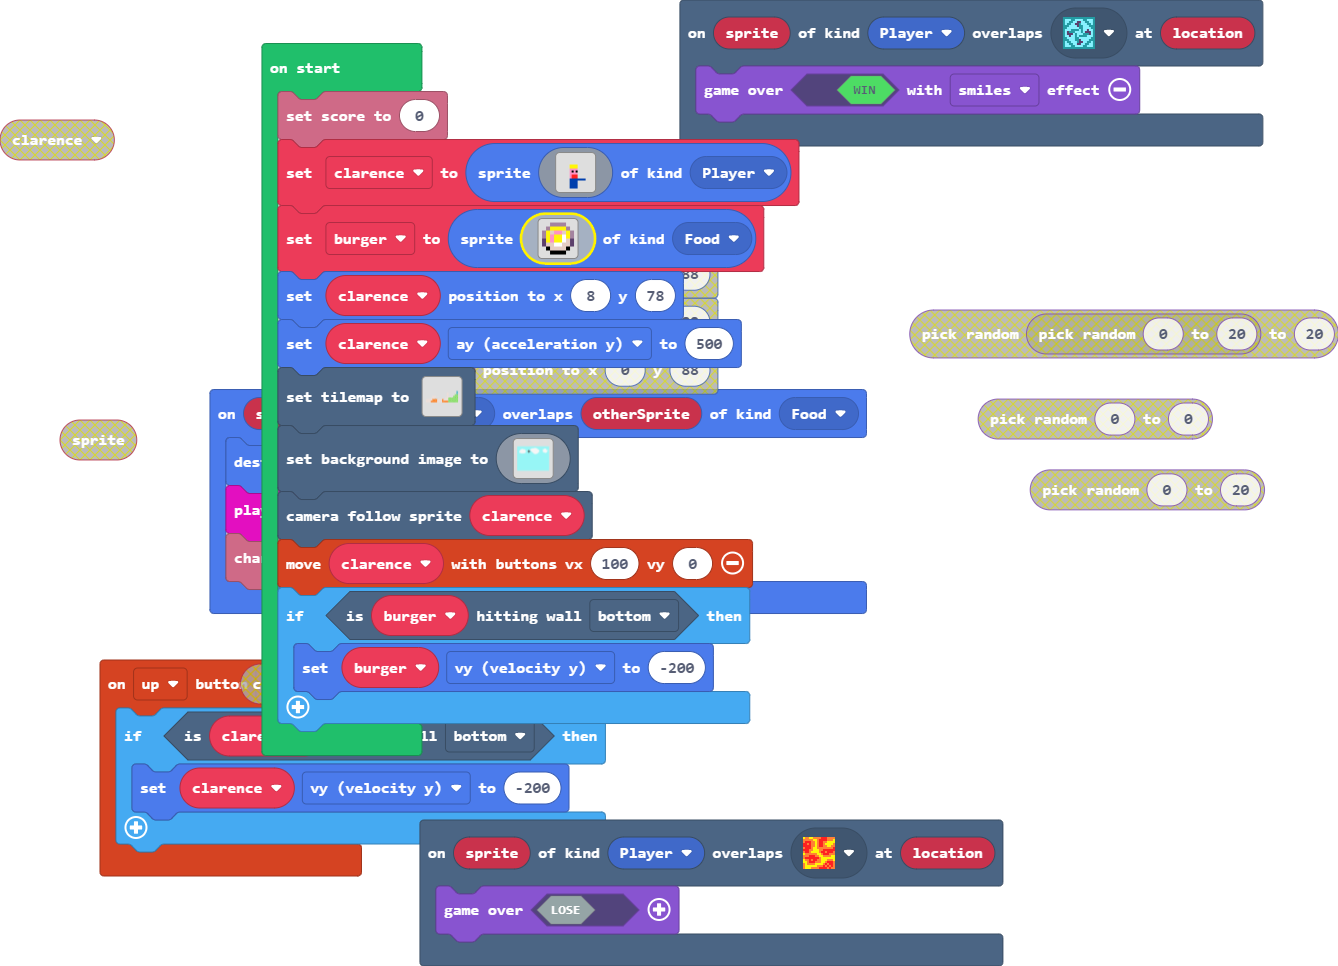
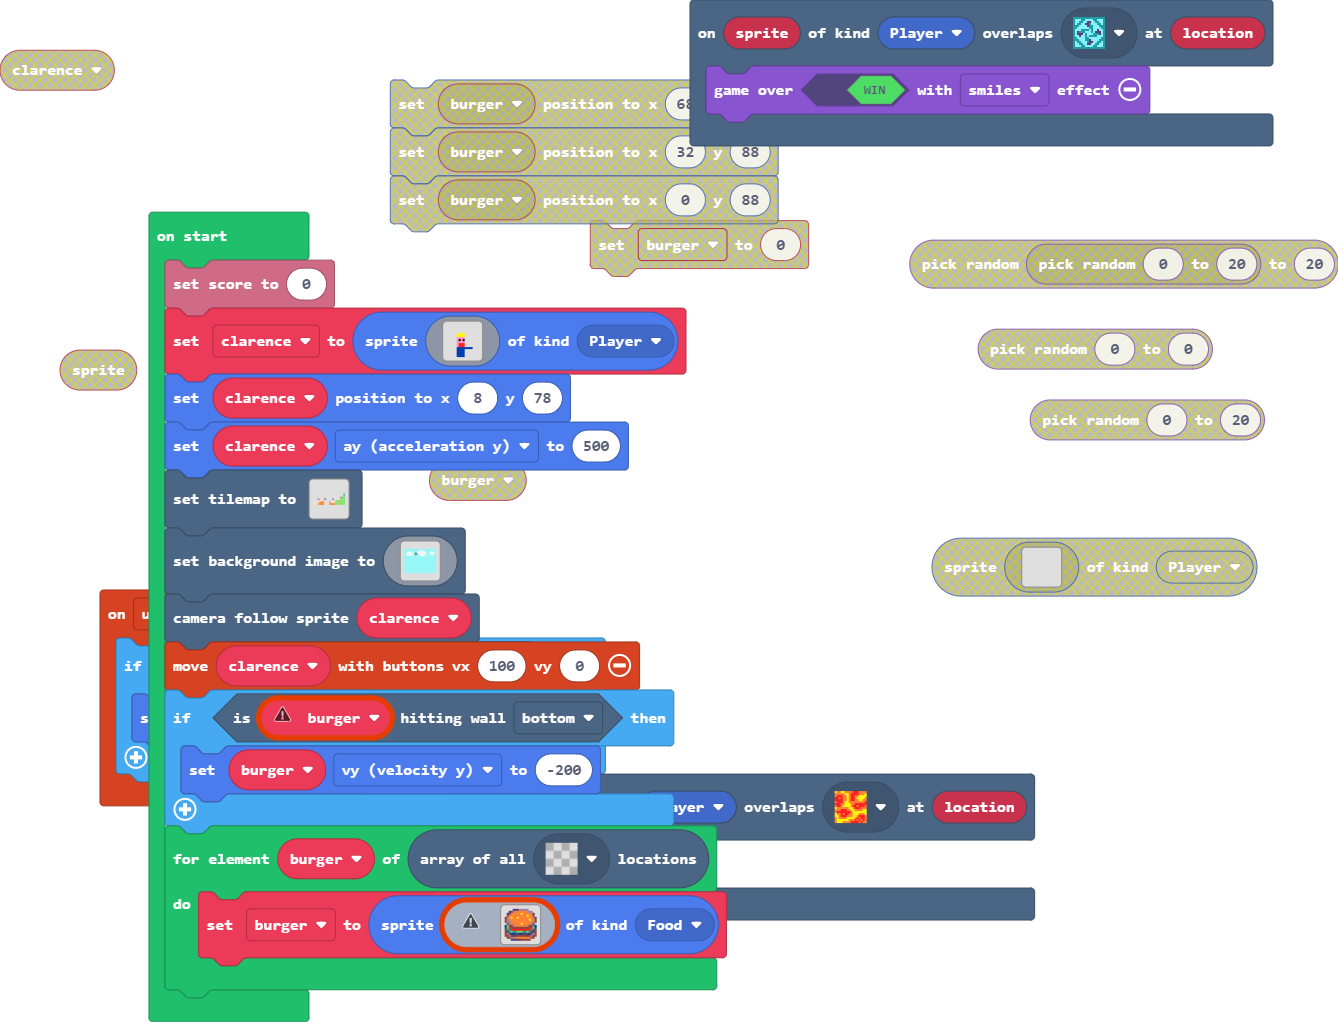
creating random burger spawing

diff --git a/tilemap.g.ts b/tilemap.g.ts
@@ -5,17 +5,6 @@ namespace myTiles {
 
     helpers._registerFactory("tilemap", function(name: string) {
         switch(helpers.stringTrim(name)) {
-            case "level1":
-            case "level1":return tiles.createTilemap(hex`1400080000000000000000000000000000000000000000000000000000000000000000000000000000000003000000000000000000000000000100000000000300000000000000000000000000010000000002020000000001010005000000000001000000020202000000010100000000000000010102020202020201010101040404010101040101000202020202020101010404040401010104040404020202020202`, img`
-. . . . . . . . . . . . . . . . . . . . 
-. . . . . . . . . . . . . . . . . . . . 
-. . . . . . . . . . . . . 2 . . . . . . 
-. . . . . . . . . . . . . . . . . . 2 2 
-. . . . 2 2 . . . . . . . . . . . 2 2 2 
-. . . 2 2 . . . . . . . 2 2 2 2 2 2 2 2 
-2 2 2 2 . . . 2 2 2 . 2 2 . 2 2 2 2 2 2 
-2 2 2 . . . . 2 2 2 . . . . 2 2 2 2 2 2 
-`, [myTiles.transparency16,sprites.builtin.brick,sprites.builtin.field0,sprites.dungeon.collectibleInsignia,sprites.dungeon.hazardLava1], TileScale.Sixteen);
             case "level2":
             case "level2":return tiles.createTilemap(hex`1000100000000000000000000000000000000000000000000000000000000000000000000000000000000000000000000000000000000000000000000000000000000000000000000000000000000000000000000000000000000000000000000000000000000000000000000000000000000000000000000000000000000000000000000000000000000000000000000000000000000000000000000000000000000000000000000000000000000000000000000000000000000000000000000000000000000000000000000000000000000000000000000000000000000000000000000000000000000000000000000000000000000000000000000000000000000000`, img`
 . . . . . . . . . . . . . . . . 
@@ -46,6 +35,17 @@ namespace myTiles {
 2 2 2 2 . . . 2 2 2 . 2 2 . 2 2 2 2 2 2 
 2 2 2 . . . . 2 2 2 . . . . 2 2 2 2 2 2 
 `, [myTiles.transparency16,sprites.builtin.brick,sprites.builtin.field0,sprites.dungeon.collectibleInsignia,sprites.dungeon.hazardLava1], TileScale.Sixteen);
+            case "level1":
+            case "level1":return tiles.createTilemap(hex`1400080000000000000000000000000000000000000000000000000000000000000000000000000000000003000000000000000000000000000100000000000300000000000000000000000000010000000502020000000501010005000000000501000000020202000000010100000000000000010102020202020201010101040404010101040101000202020202020101010404040401010104040404020202020202`, img`
+. . . . . . . . . . . . . . . . . . . . 
+. . . . . . . . . . . . . . . . . . . . 
+. . . . . . . . . . . . . 2 . . . . . . 
+. . . . . . . . . . . . . . . . . . 2 2 
+. . . . 2 2 . . . . . . . . . . . 2 2 2 
+. . . 2 2 . . . . . . . 2 2 2 2 2 2 2 2 
+2 2 2 2 . . . 2 2 2 . 2 2 . 2 2 2 2 2 2 
+2 2 2 . . . . 2 2 2 . . . . 2 2 2 2 2 2 
+`, [myTiles.transparency16,sprites.builtin.brick,sprites.builtin.field0,sprites.dungeon.collectibleInsignia,sprites.dungeon.hazardLava1,sprites.builtin.coral1], TileScale.Sixteen);
         }
         return null;
     })

diff --git a/images.g.ts b/images.g.ts
@@ -143,16 +143,6 @@ namespace myImages {
 9999999999999999999999999999999999999999999999999999999999999999999999999999999999999999999999999999999999999999999999999999999999999999999999999999999999999999
 9999999999999999999999999999999999999999999999999999999999999999999999999999999999999999999999999999999999999999999999999999999999999999999999999999999999999999
 `;
-            case "image2":return img`
-. . b b b b . . 
-. b 5 5 5 5 b . 
-b 5 d 3 3 d 5 b 
-b 5 3 5 5 1 5 b 
-c 5 3 5 5 1 d c 
-c d d 1 1 d d c 
-. f d d d d f . 
-. . f f f f . . 
-`;
             case "image4":return img`
 . . b b b b . . 
 . b 5 5 5 5 b . 
@@ -180,6 +170,70 @@ c d d 1 1 d d c
 . . . . . 8 8 8 8 . . . . . . . 
 . . . . . 8 8 8 8 . . . . . . . 
 . . . . . 8 8 8 8 . . . . . . . 
+`;
+            case "image6":return img`
+. . b b b b . . 
+. b 5 5 5 5 b . 
+b 5 d 3 3 d 5 b 
+b 5 3 5 5 1 5 b 
+c 5 3 5 5 1 d c 
+c d d 1 1 d d c 
+. f d d d d f . 
+. . f f f f . . 
+`;
+            case "image7":return img`
+. . . . . . . . . . . . . . . . 
+. . . . . . . . . . . . . . . . 
+. . . . . . . . . . . . . . . . 
+. . . . . . . . . . . . . . . . 
+. . . . . 5 5 5 5 . . . . . . . 
+. . . . . 5 5 5 5 . . . . . . . 
+. . . . . 3 3 3 3 . . . . . . . 
+. . . . . 3 f 3 f . . . . . . . 
+. . . . . 3 3 3 3 . . . . . . . 
+. . . . . 3 2 2 2 . . . . . . . 
+. . . . . 3 2 2 2 . . . . . . . 
+. . . . . 8 8 8 8 8 8 8 8 . . . 
+. . . . . 8 8 8 8 . . . . . . . 
+. . . . . 8 8 8 8 . . . . . . . 
+. . . . . 8 8 8 8 . . . . . . . 
+. . . . . 8 8 8 8 . . . . . . . 
+`;
+            case "image8":return img`
+. . . . . . . . . . . . . . . . 
+. . . . . . . . . . . . . . . . 
+. . . . . . . . . . . . . . . . 
+. . . . . . . . . . . . . . . . 
+. . . . . . . . . . . . . . . . 
+. . . . . . . . . . . . . . . . 
+. . . . . . . . . . . . . . . . 
+. . . . . . . . . . . . . . . . 
+. . . . . . . . . . . . . . . . 
+. . . . . . . . . . . . . . . . 
+. . . . . . . . . . . . . . . . 
+. . . . . . . . . . . . . . . . 
+. . . . . . . . . . . . . . . . 
+. . . . . . . . . . . . . . . . 
+. . . . . . . . . . . . . . . . 
+. . . . . . . . . . . . . . . . 
+`;
+            case "image2":return img`
+. . . . c c c b b b b b . . . . 
+. . c c b 4 4 4 4 4 4 b b b . . 
+. c c 4 4 4 4 4 5 4 4 4 4 b c . 
+. e 4 4 4 4 4 4 4 4 4 5 4 4 e . 
+e b 4 5 4 4 5 4 4 4 4 4 4 4 b c 
+e b 4 4 4 4 4 4 4 4 4 4 5 4 4 e 
+e b b 4 4 4 4 4 4 4 4 4 4 4 b e 
+. e b 4 4 4 4 4 5 4 4 4 4 b e . 
+8 7 e e b 4 4 4 4 4 4 b e e 6 8 
+8 7 2 e e e e e e e e e e 2 7 8 
+e 6 6 2 2 2 2 2 2 2 2 2 2 6 c e 
+e c 6 7 6 6 7 7 7 6 6 7 6 c c e 
+e b e 8 8 c c 8 8 c c c 8 e b e 
+e e b e c c e e e e e c e b e e 
+. e e b b 4 4 4 4 4 4 4 4 e e . 
+. . . c c c c c e e e e e . . . 
 `;
         }
         return null;

diff --git a/main.ts b/main.ts
@@ -9,11 +9,6 @@ controller.up.onEvent(ControllerButtonEvent.Pressed, function () {
 scene.onOverlapTile(SpriteKind.Player, sprites.dungeon.hazardLava1, function (sprite, location) {
     game.over(false)
 })
-sprites.onOverlap(SpriteKind.Player, SpriteKind.Food, function (sprite, otherSprite) {
-    burger.destroy()
-    music.baDing.play()
-    info.changeScoreBy(1)
-})
 scene.onOverlapTile(SpriteKind.Player, sprites.dungeon.collectibleInsignia, function (sprite, location) {
     game.over(true, effects.smiles)
 })
@@ -38,16 +33,6 @@ clarence = sprites.create(img`
     . . . . . 8 8 8 8 . . . . . . . 
     . . . . . 8 8 8 8 . . . . . . . 
     `, SpriteKind.Player)
-burger = sprites.create(img`
-    . . b b b b . . 
-    . b 5 5 5 5 b . 
-    b 5 d 3 3 d 5 b 
-    b 5 3 5 5 1 5 b 
-    c 5 3 5 5 1 d c 
-    c d d 1 1 d d c 
-    . f d d d d f . 
-    . . f f f f . . 
-    `, SpriteKind.Food)
 clarence.setPosition(8, 78)
 clarence.ay = 500
 tiles.setTilemap(tilemap`level1`)
@@ -177,4 +162,24 @@ scene.cameraFollowSprite(clarence)
 controller.moveSprite(clarence, 100, 0)
 if (burger.isHittingTile(CollisionDirection.Bottom)) {
     burger.vy = -200
+}
+for (let burger of tiles.getTilesByType(assets.tile`transparency16`)) {
+    burger = sprites.create(img`
+        . . . . c c c b b b b b . . . . 
+        . . c c b 4 4 4 4 4 4 b b b . . 
+        . c c 4 4 4 4 4 5 4 4 4 4 b c . 
+        . e 4 4 4 4 4 4 4 4 4 5 4 4 e . 
+        e b 4 5 4 4 5 4 4 4 4 4 4 4 b c 
+        e b 4 4 4 4 4 4 4 4 4 4 5 4 4 e 
+        e b b 4 4 4 4 4 4 4 4 4 4 4 b e 
+        . e b 4 4 4 4 4 5 4 4 4 4 b e . 
+        8 7 e e b 4 4 4 4 4 4 b e e 6 8 
+        8 7 2 e e e e e e e e e e 2 7 8 
+        e 6 6 2 2 2 2 2 2 2 2 2 2 6 c e 
+        e c 6 7 6 6 7 7 7 6 6 7 6 c c e 
+        e b e 8 8 c c 8 8 c c c 8 e b e 
+        e e b e c c e e e e e c e b e e 
+        . e e b b 4 4 4 4 4 4 4 4 e e . 
+        . . . c c c c c e e e e e . . . 
+        `, SpriteKind.Food)
 }
